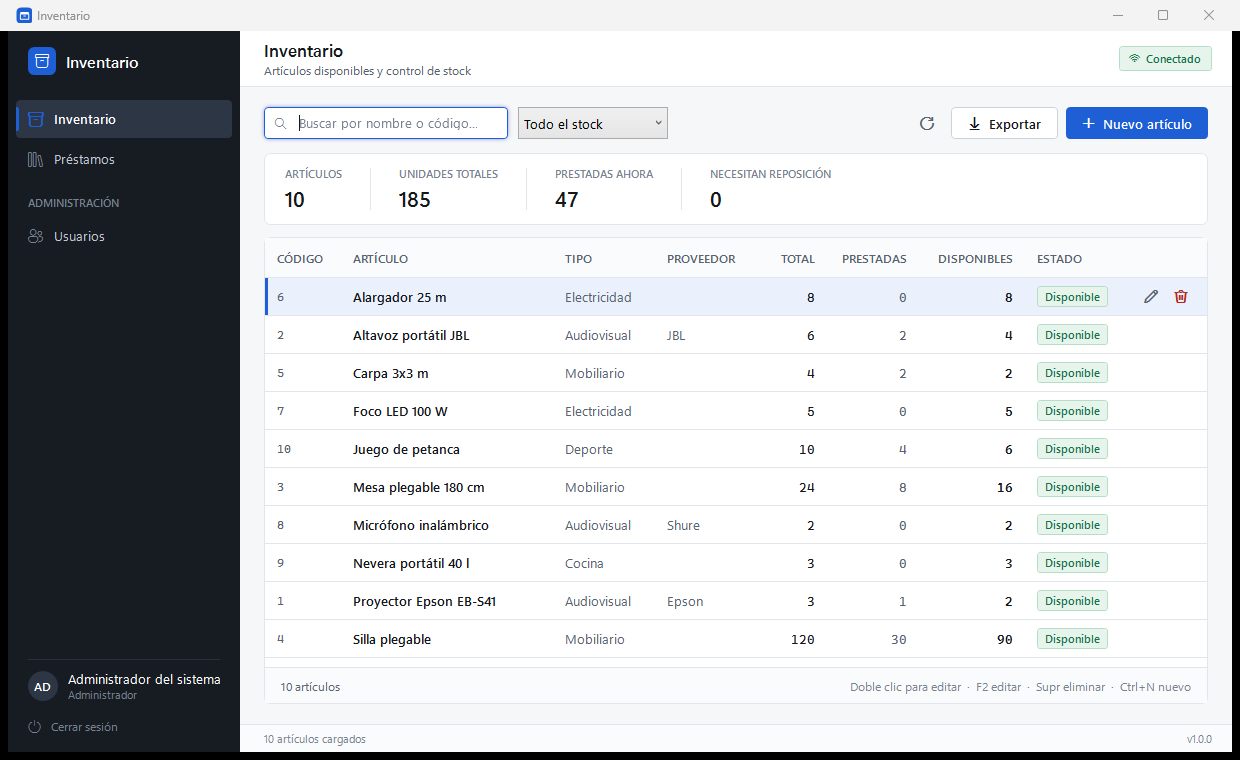
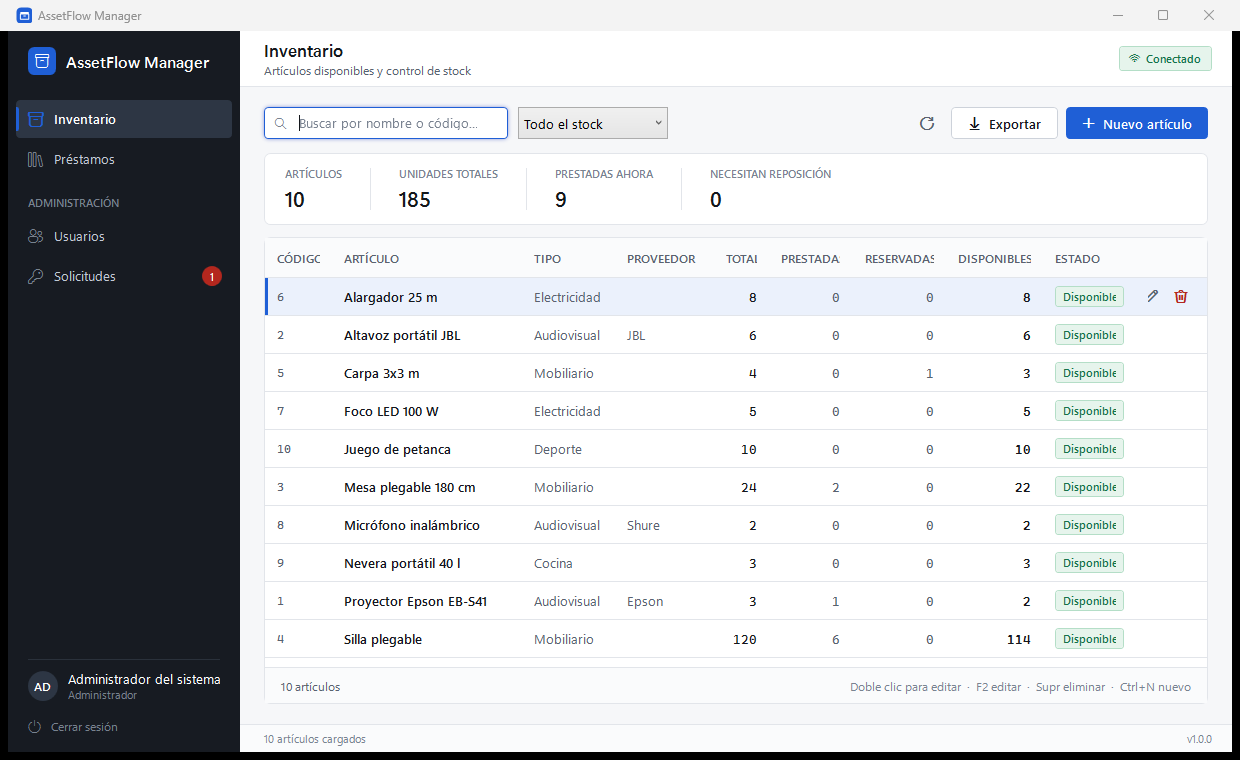
docs: capturas al dia y correccion de los DTO del cliente Android
Capturas regeneradas contra la aplicacion en ejecucion. Las anteriores eran
de antes del renombrado: mostraban un producto llamado "Inventario" y no
tenian la seccion de Solicitudes. Se anade una quinta, la bandeja de
recuperaciones. Todos los datos que aparecen son ficticios.

Ademas, dos defectos reales encontrados al preparar esas capturas:

- SolicitudesPage usaba el DataGrid por defecto de WPF en lugar del estilo
  de la aplicacion, asi que desentonaba con el resto de pantallas.
- Los DTO del cliente Android no se correspondian con la API. Estaban mal
  el alta de prestamo (usaba "items" en vez de "lines" y no enviaba la
  fecha estimada de devolucion, que es obligatoria), el listado de material
  (esperaba un objeto paginado donde la API devuelve una lista) y varios
  campos de LoanDto. El texto del estado se calcula ahora en el cliente,
  como hace AssetFlow.Core, porque el servidor manda el estado en crudo.

Esos DTO se habian escrito a ojo desde los controladores; se han cotejado
contra las respuestas reales de la API en ejecucion.

diff --git a/android/app/src/main/java/com/assetflow/manager/data/Dtos.kt b/android/app/src/main/java/com/assetflow/manager/data/Dtos.kt
@@ -75,25 +75,17 @@ data class MaterialDto(
     val type: String? = null,
     val publisher: String? = null,
     val totalQuantity: Int,
-    val availableQuantity: Int,
+    val onLoanQuantity: Int = 0,
     val reservedQuantity: Int = 0,
-    val lowStockThreshold: Int = 0
+    val availableQuantity: Int,
+    val lowStockThreshold: Int = 0,
+    val status: String? = null,
+    val version: String? = null
 ) {
-    /** Unidades fuera del almacén: total menos lo libre menos lo reservado. */
-    val prestadas: Int get() = (totalQuantity - availableQuantity - reservedQuantity).coerceAtLeast(0)
-
     val sinStock: Boolean get() = availableQuantity <= 0
 
     val stockBajo: Boolean get() = !sinStock && availableQuantity <= lowStockThreshold
 }
-
-@Serializable
-data class PagedMaterials(
-    val items: List<MaterialDto> = emptyList(),
-    val total: Int = 0,
-    val page: Int = 1,
-    val pageSize: Int = 20
-)
 
 // ---------------------------------------------------------------------------
 // Préstamos
@@ -115,38 +107,61 @@ data class LoanLineDto(
     val quantity: Int
 )
 
+/**
+ * Préstamo tal y como lo devuelve la API.
+ *
+ * El servidor **no** manda el texto del estado ni banderas del tipo
+ * «estaPendiente»: manda `status` en crudo y el cliente decide cómo
+ * presentarlo. El cliente de escritorio hace lo mismo en `AssetFlow.Core`.
+ */
 @Serializable
 data class LoanDto(
     val id: Int,
     val userId: Int,
-    val userName: String = "",
+    val userFullName: String = "",
     val status: String,
-    val estadoTexto: String = "",
-    val estadoDetalle: String? = null,
+    val reason: String? = null,
     val requestedAt: String? = null,
     val loanDate: String? = null,
-    val dueDate: String? = null,
+    val estimatedReturnDate: String? = null,
     val returnDate: String? = null,
-    val items: List<LoanLineDto> = emptyList(),
-    @SerialName("estaPendiente") val pendiente: Boolean = false,
-    @SerialName("estaActivo") val activo: Boolean = false,
-    @SerialName("tieneDevolucionSolicitada") val devolucionSolicitada: Boolean = false,
-    @SerialName("estaCerrado") val cerrado: Boolean = false,
+    val returnRequestedAt: String? = null,
+    val decidedByName: String? = null,
+    val decisionNote: String? = null,
+    val lines: List<LoanLineDto> = emptyList(),
     val isOverdue: Boolean = false
 ) {
     val resumenArticulos: String
-        get() = items.joinToString(", ") { "${it.quantity} × ${it.materialName}" }
+        get() = lines.joinToString(", ") { "${it.quantity} × ${it.materialName}" }
             .ifEmpty { "Sin artículos" }
+
+    /** Estado en palabras, para no depender sólo del color. */
+    val estadoTexto: String
+        get() = when (status) {
+            EstadosPrestamo.PENDIENTE -> "Pendiente"
+            EstadosPrestamo.ACTIVO -> "En curso"
+            EstadosPrestamo.DEVOLUCION_SOLICITADA -> "Devolución pendiente"
+            EstadosPrestamo.DEVUELTO -> "Devuelto"
+            EstadosPrestamo.RECHAZADO -> "Rechazado"
+            else -> status
+        }
 }
 
 @Serializable
-data class CreateLoanItem(val materialId: Int, val quantity: Int)
+data class CreateLoanLine(val materialId: Int, val quantity: Int)
 
+/**
+ * Alta de préstamo.
+ *
+ * `userId` se omite a propósito: el servidor lo ignora salvo para
+ * administración y usa el del token. Mandarlo desde aquí sería pedirle que
+ * confíe en el cliente.
+ */
 @Serializable
 data class CreateLoanRequest(
-    val items: List<CreateLoanItem>,
-    val dueDate: String? = null,
-    val notes: String? = null
+    val estimatedReturnDate: String,
+    val lines: List<CreateLoanLine>,
+    val reason: String? = null
 )
 
 @Serializable

diff --git a/android/app/src/main/java/com/assetflow/manager/ui/AppViewModel.kt b/android/app/src/main/java/com/assetflow/manager/ui/AppViewModel.kt
@@ -3,7 +3,7 @@ package com.assetflow.manager.ui
 import android.app.Application
 import androidx.lifecycle.AndroidViewModel
 import androidx.lifecycle.viewModelScope
-import com.assetflow.manager.data.CreateLoanItem
+import com.assetflow.manager.data.CreateLoanLine
 import com.assetflow.manager.data.CreateLoanRequest
 import com.assetflow.manager.data.CurrentUser
 import com.assetflow.manager.data.LoanDecisionRequest
@@ -16,6 +16,7 @@ import kotlinx.coroutines.flow.StateFlow
 import kotlinx.coroutines.flow.asStateFlow
 import kotlinx.coroutines.flow.update
 import kotlinx.coroutines.launch
+import java.time.LocalDate
 
 /** Pantalla que se está mostrando. */
 enum class Pantalla {
@@ -282,11 +283,7 @@ class AppViewModel(aplicacion: Application) : AndroidViewModel(aplicacion) {
             val texto = _estado.value.busqueda.trim()
 
             val materiales = sesion.llamar {
-                sesion.api.materiales(
-                    busqueda = texto.takeIf { it.isNotEmpty() },
-                    pagina = 1,
-                    tamano = 100
-                )
+                sesion.api.materiales(busqueda = texto.takeIf { it.isNotEmpty() })
             }
 
             val prestamos = sesion.llamar { sesion.api.prestamos() }
@@ -299,7 +296,7 @@ class AppViewModel(aplicacion: Application) : AndroidViewModel(aplicacion) {
             var fallo: String? = null
 
             when (materiales) {
-                is Resultado.Ok -> listaMateriales = materiales.valor.items
+                is Resultado.Ok -> listaMateriales = materiales.valor
                 is Resultado.Error -> fallo = materiales.mensaje
             }
 
@@ -320,10 +317,18 @@ class AppViewModel(aplicacion: Application) : AndroidViewModel(aplicacion) {
     }
 
     fun solicitarPrestamo(material: MaterialDto, cantidad: Int) {
+        // La API exige fecha estimada de devolución. Dos semanas es el plazo
+        // habitual para material de una asociación; la persona puede pedir la
+        // devolución antes en cualquier momento.
+        val devolucion = LocalDate.now().plusWeeks(2).toString()
+
         operar {
             sesion.llamar {
                 sesion.api.crearPrestamo(
-                    CreateLoanRequest(items = listOf(CreateLoanItem(material.id, cantidad)))
+                    CreateLoanRequest(
+                        estimatedReturnDate = devolucion,
+                        lines = listOf(CreateLoanLine(material.id, cantidad))
+                    )
                 )
             }
         }

diff --git a/src/AssetFlow.Desktop/Views/SolicitudesPage.xaml b/src/AssetFlow.Desktop/Views/SolicitudesPage.xaml
@@ -57,21 +57,25 @@
                 CornerRadius="{StaticResource Radius.Md}">
             <Grid>
                 <DataGrid x:Name="Tabla"
-                          AutoGenerateColumns="False"
-                          IsReadOnly="True"
-                          HeadersVisibility="Column"
-                          SelectionMode="Single"
+                          Style="{StaticResource Grid.Table}"
                           AutomationProperties.Name="Solicitudes de recuperación de contraseña">
                     <DataGrid.Columns>
-                        <DataGridTextColumn Header="Usuario" Width="160"
-                                            Binding="{Binding Username}"/>
-                        <DataGridTextColumn Header="Nombre" Width="*"
+                        <DataGridTextColumn Header="USUARIO" Width="150"
+                                            Binding="{Binding Username}">
+                            <DataGridTextColumn.ElementStyle>
+                                <Style TargetType="TextBlock">
+                                    <Setter Property="FontFamily" Value="{StaticResource FontMono}"/>
+                                    <Setter Property="VerticalAlignment" Value="Center"/>
+                                </Style>
+                            </DataGridTextColumn.ElementStyle>
+                        </DataGridTextColumn>
+                        <DataGridTextColumn Header="NOMBRE" Width="*"
                                             Binding="{Binding FullName}"/>
-                        <DataGridTextColumn Header="Solicitada" Width="150"
+                        <DataGridTextColumn Header="SOLICITADA" Width="150"
                                             Binding="{Binding SolicitadaTexto}"/>
-                        <DataGridTextColumn Header="Estado" Width="110"
+                        <DataGridTextColumn Header="ESTADO" Width="120"
                                             Binding="{Binding Estado}"/>
-                        <DataGridTextColumn Header="Resuelta por" Width="140"
+                        <DataGridTextColumn Header="RESUELTA POR" Width="140"
                                             Binding="{Binding ResolvedByUsername}"/>
 
                         <DataGridTemplateColumn Header="" Width="200">

diff --git a/android/app/src/main/java/com/assetflow/manager/ui/screens/Principal.kt b/android/app/src/main/java/com/assetflow/manager/ui/screens/Principal.kt
@@ -347,18 +347,20 @@ private fun TarjetaPrestamo(
 
             Text(prestamo.resumenArticulos, style = MaterialTheme.typography.bodyLarge)
 
-            if (esAdministrador && prestamo.userName.isNotBlank()) {
+            if (esAdministrador && prestamo.userFullName.isNotBlank()) {
                 Text(
-                    prestamo.userName,
+                    prestamo.userFullName,
                     style = MaterialTheme.typography.bodySmall,
                     color = MaterialTheme.colorScheme.onSurfaceVariant
                 )
             }
 
-            if (!prestamo.estadoDetalle.isNullOrBlank()) {
+            val motivo = prestamo.reason
+
+            if (!motivo.isNullOrBlank()) {
                 Spacer(Modifier.height(4.dp))
                 Text(
-                    prestamo.estadoDetalle,
+                    motivo,
                     style = MaterialTheme.typography.bodySmall,
                     color = MaterialTheme.colorScheme.onSurfaceVariant
                 )

diff --git a/android/app/src/main/java/com/assetflow/manager/data/ApiService.kt b/android/app/src/main/java/com/assetflow/manager/data/ApiService.kt
@@ -47,12 +47,14 @@ interface ApiService {
     // Material
     // -----------------------------------------------------------------------
 
+    /**
+     * Lista de material. Devuelve todo, sin paginar: el inventario de una
+     * asociación son decenas de artículos, no miles.
+     */
     @GET("api/materials")
     suspend fun materiales(
-        @Query("search") busqueda: String? = null,
-        @Query("page") pagina: Int = 1,
-        @Query("pageSize") tamano: Int = 50
-    ): Response<PagedMaterials>
+        @Query("search") busqueda: String? = null
+    ): Response<List<MaterialDto>>
 
     // -----------------------------------------------------------------------
     // Préstamos

diff --git a/README.md b/README.md
@@ -37,9 +37,11 @@ común que es donde se toman todas las decisiones de seguridad.
   direcciones IP ni ningún secreto.
 - **Sesión persistente opcional**, protegida con DPAPI en el equipo del usuario.
 
-| Acceso | Préstamos | Cuentas |
-|---|---|---|
-| ![Acceso](docs/screenshots/01-acceso.png) | ![Préstamos](docs/screenshots/03-prestamos.png) | ![Usuarios](docs/screenshots/04-usuarios.png) |
+| Acceso | Préstamos |
+|---|---|
+| ![Acceso](docs/screenshots/01-acceso.png) | ![Préstamos](docs/screenshots/03-prestamos.png) |
+| **Cuentas** | **Solicitudes de recuperación** |
+| ![Usuarios](docs/screenshots/04-usuarios.png) | ![Solicitudes](docs/screenshots/05-solicitudes.png) |
 
 ## Arquitectura
 
